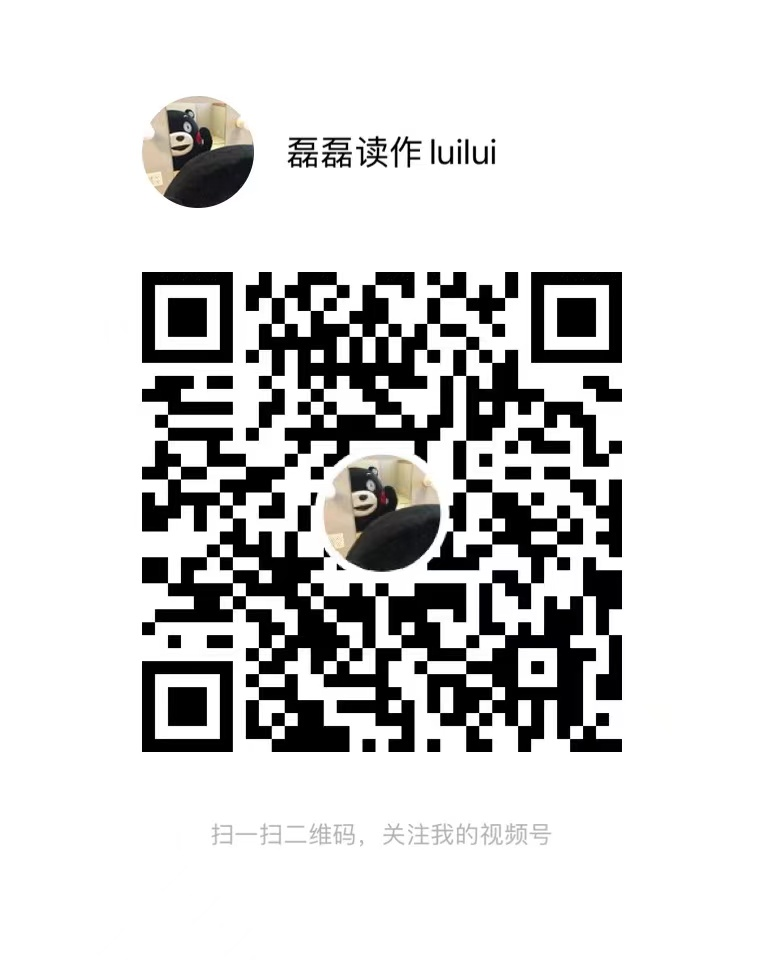
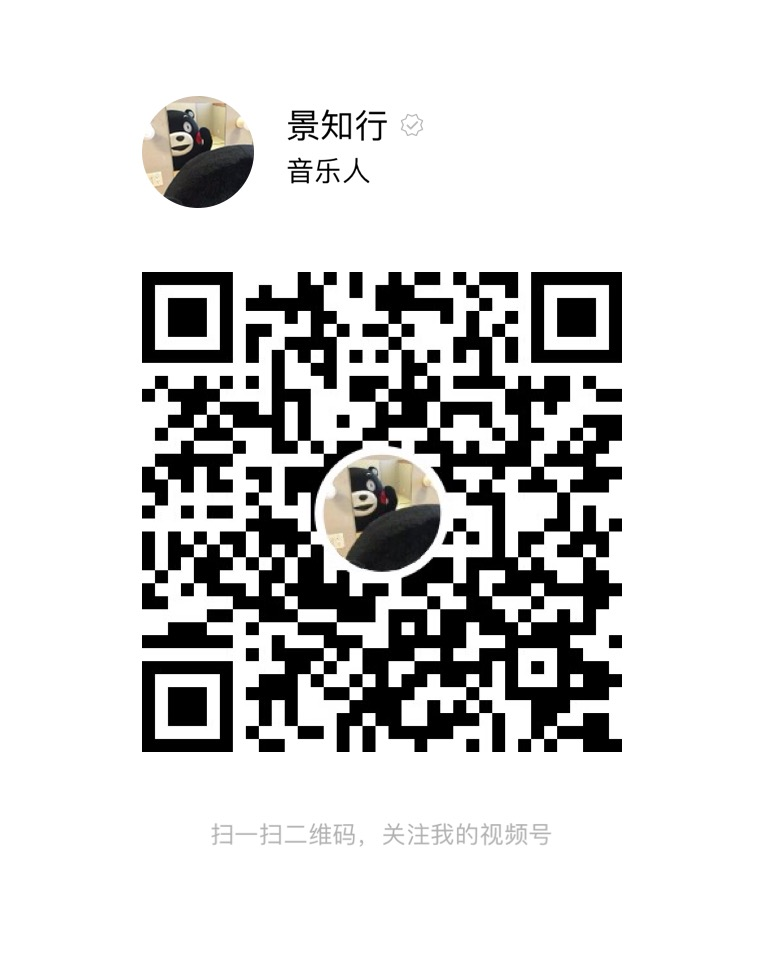
refactor: new links

Changed region(s): [[0.1806, 0.2812, 0.8128, 0.7812], [0.3613, 0.0938, 0.6623, 0.1875]]

diff --git a/src/pages/index.vue b/src/pages/index.vue
@@ -84,6 +84,17 @@
           .block
             .subtitle.popins
               b-icon(
+                pack="fas"
+                icon="camera"
+                type="is-primary")
+              |  抖音
+
+            figure.image.is-weixin-video
+              img(src="@/assets/douyin.png")
+
+          .block
+            .subtitle.popins
+              b-icon(
                 pack="fab"
                 icon="weixin"
                 type="is-primary")
@@ -91,6 +102,17 @@
 
             figure.image.is-weixin-video
               img(src="@/assets/weixin-video.jpg")
+
+          .block
+            .subtitle.popins
+              b-icon(
+                pack="fas"
+                icon="camera"
+                type="is-primary")
+              |  快手
+
+            figure.image.is-weixin-video
+              img(src="@/assets/kuaishou.jpg")
 
       b-tab-item(label="视频" icon="movie")
         .container
@@ -121,6 +143,12 @@ export default {
           href: 'https://www.zhihu.com/people/jingxiaolei',
         },
         {
+          title: 'Quora',
+          pack: 'fab',
+          icon: 'quora',
+          href: 'https://www.quora.com/profile/JING-Zhixing',
+        },
+        {
           title: 'Instagram',
           pack: 'fab',
           icon: 'instagram',
@@ -132,12 +160,6 @@ export default {
           icon: 'github',
           href: 'https://github.com/hugojing',
         },
-        // {
-        //   title: '更多...',
-        //   pack: 'fas',
-        //   icon: 'info',
-        //   href: '正在添加中',
-        // },
       ],
       music: [
         {
@@ -203,6 +225,12 @@ export default {
           pack: 'fas',
           icon: 'link',
           href: 'https://www.ixigua.com/home/198340244945864/',
+        },
+        {
+          title: '知乎视频',
+          pack: 'fas',
+          icon: 'link',
+          href: 'https://www.zhihu.com/people/jingxiaolei/zvideos',
         },
       ],
     }
